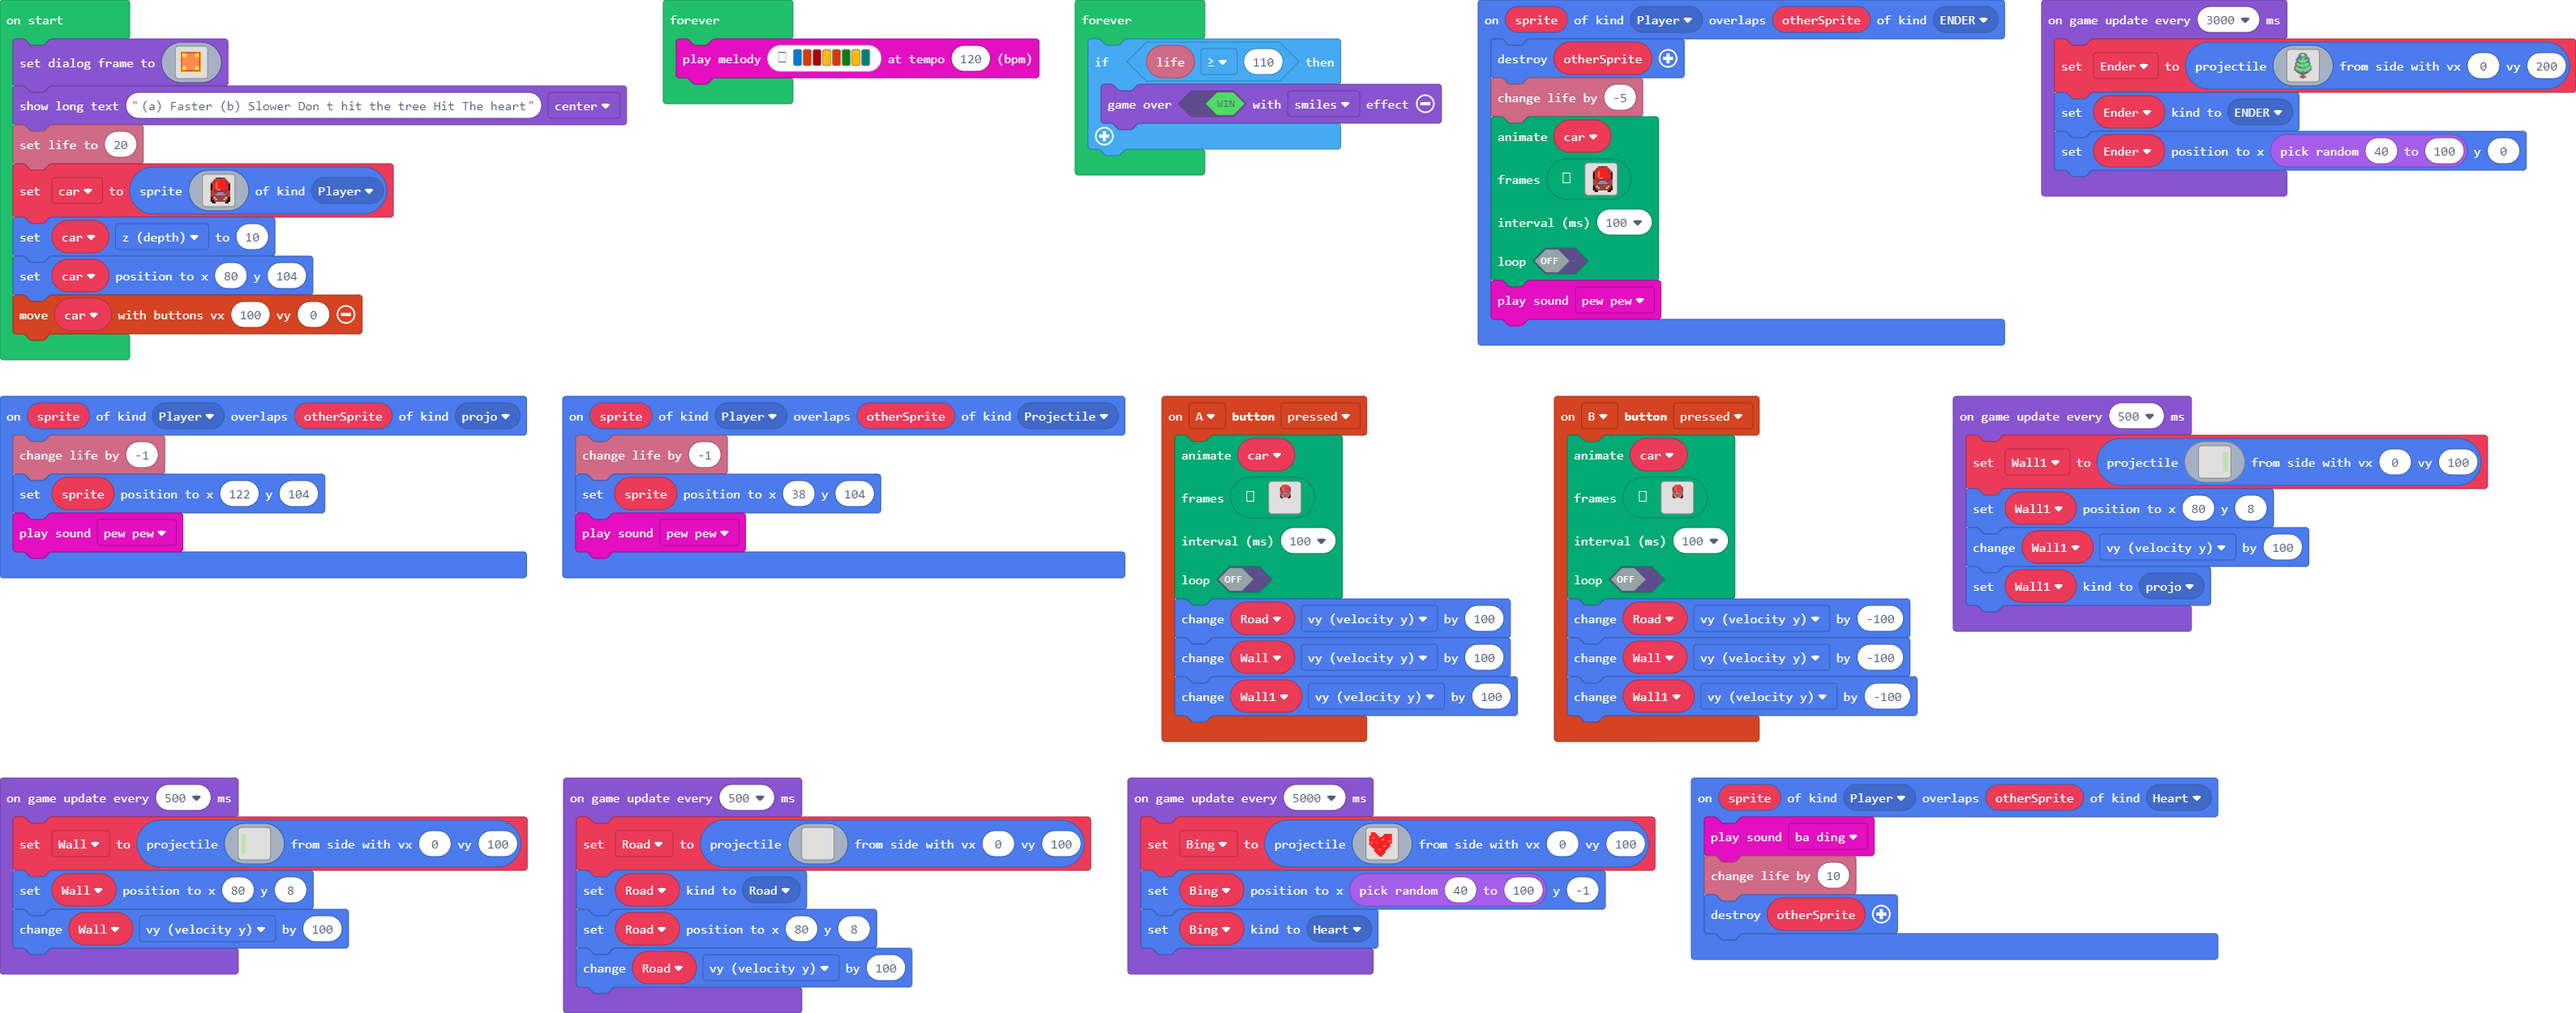
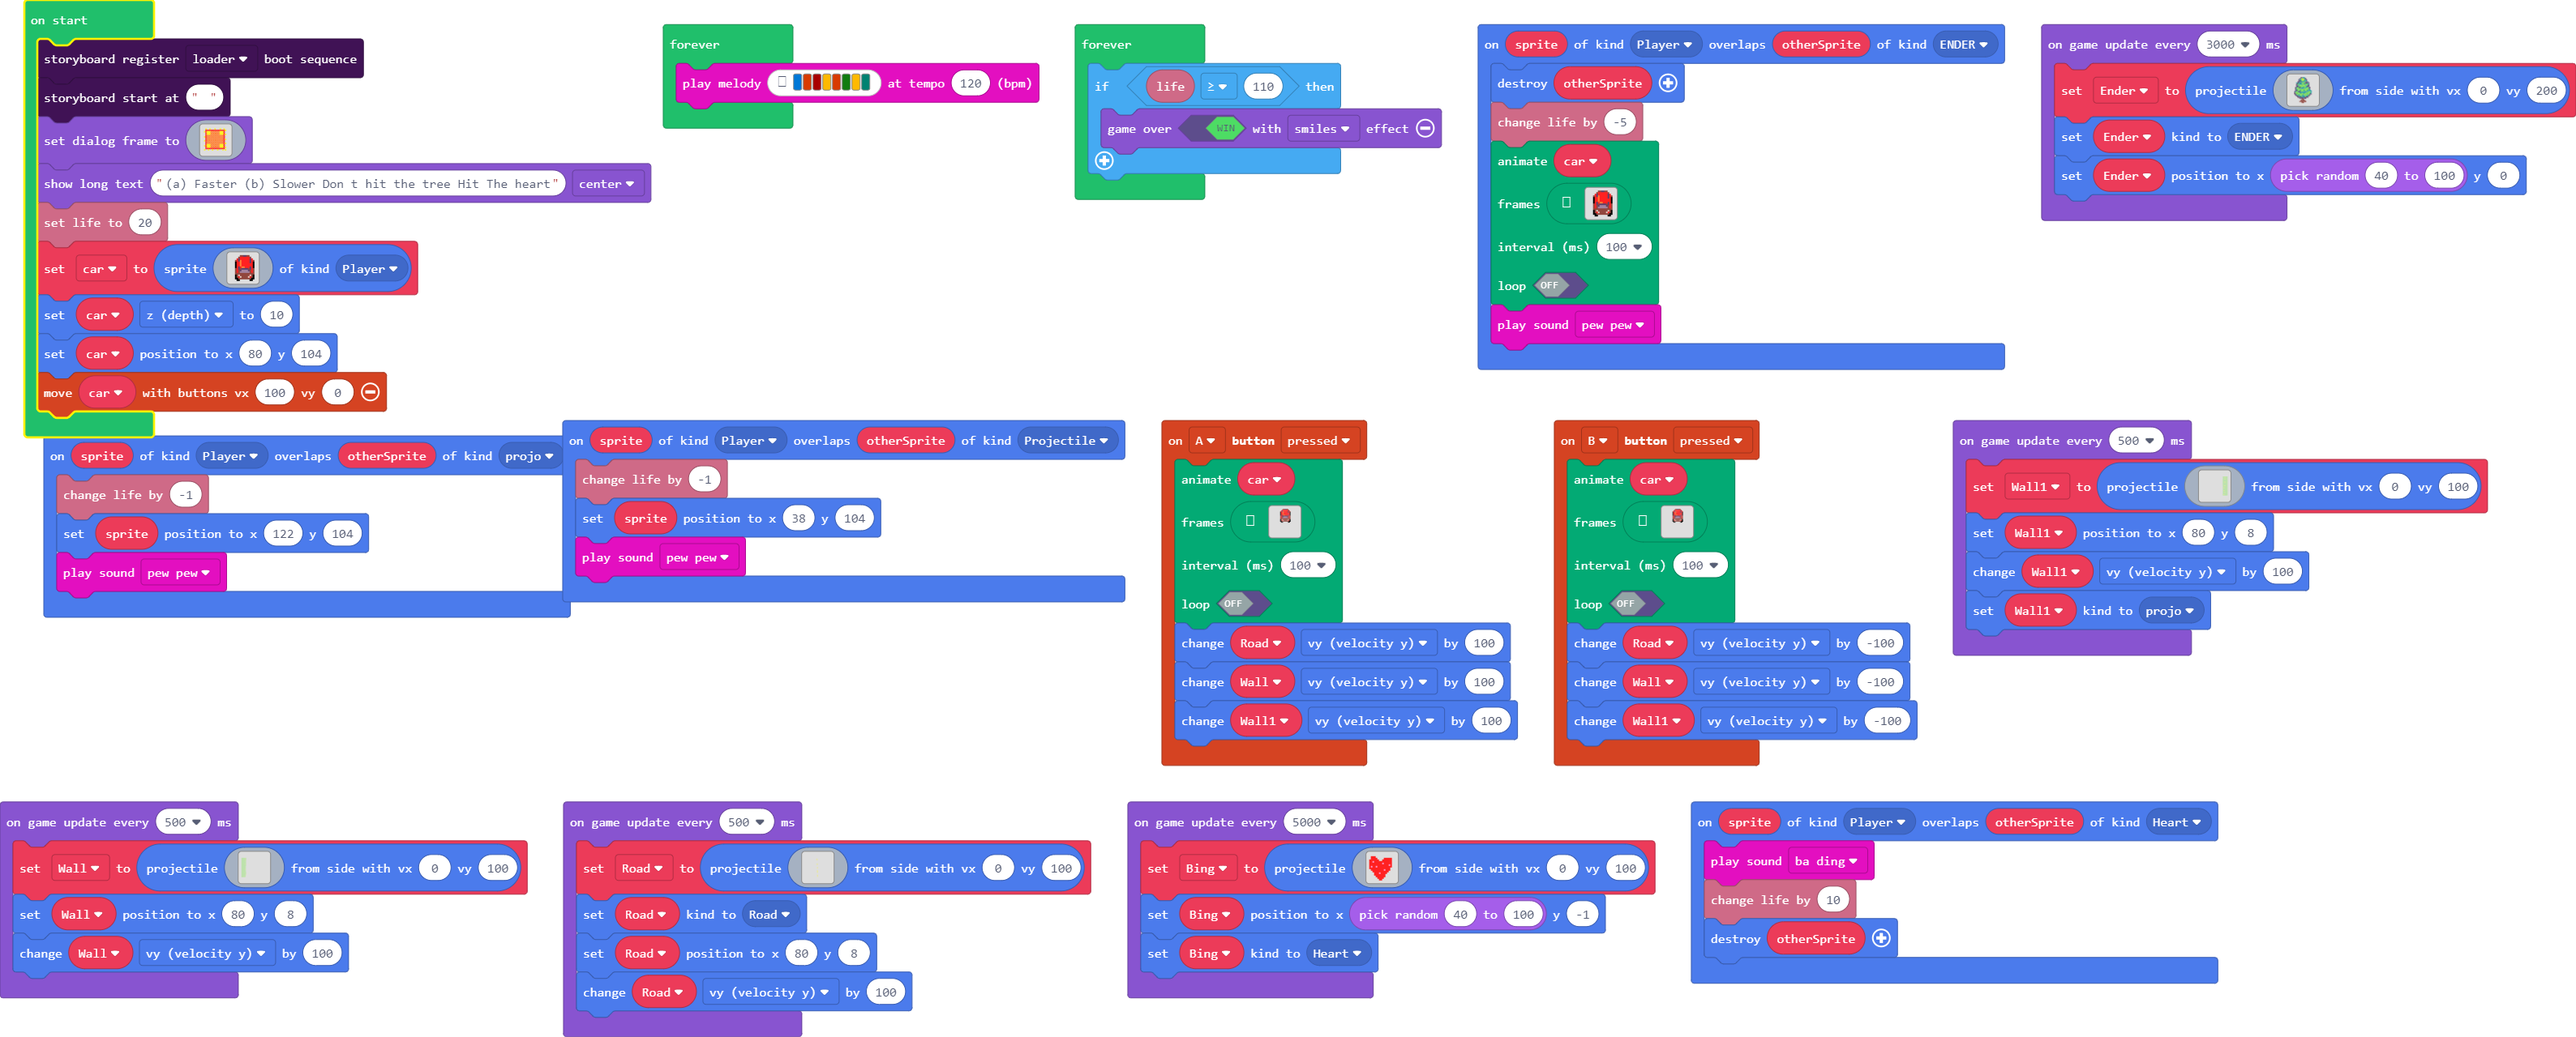
Update pxt.json, main.blocks, main.ts

Changed region(s): [[0.0, 0.0, 1.0, 0.9672]]

diff --git a/main.ts b/main.ts
@@ -611,6 +611,8 @@ let Wall1: Sprite = null
 let Wall: Sprite = null
 let Road: Sprite = null
 let car: Sprite = null
+storyboard.loaderBootSequence.register()
+storyboard.start("")
 game.setDialogFrame(img`
 . . . . . . . . . . . . . . . . . . . . 
 . . 5 . . 5 . . . 5 . . . 5 . . 5 . . . 
